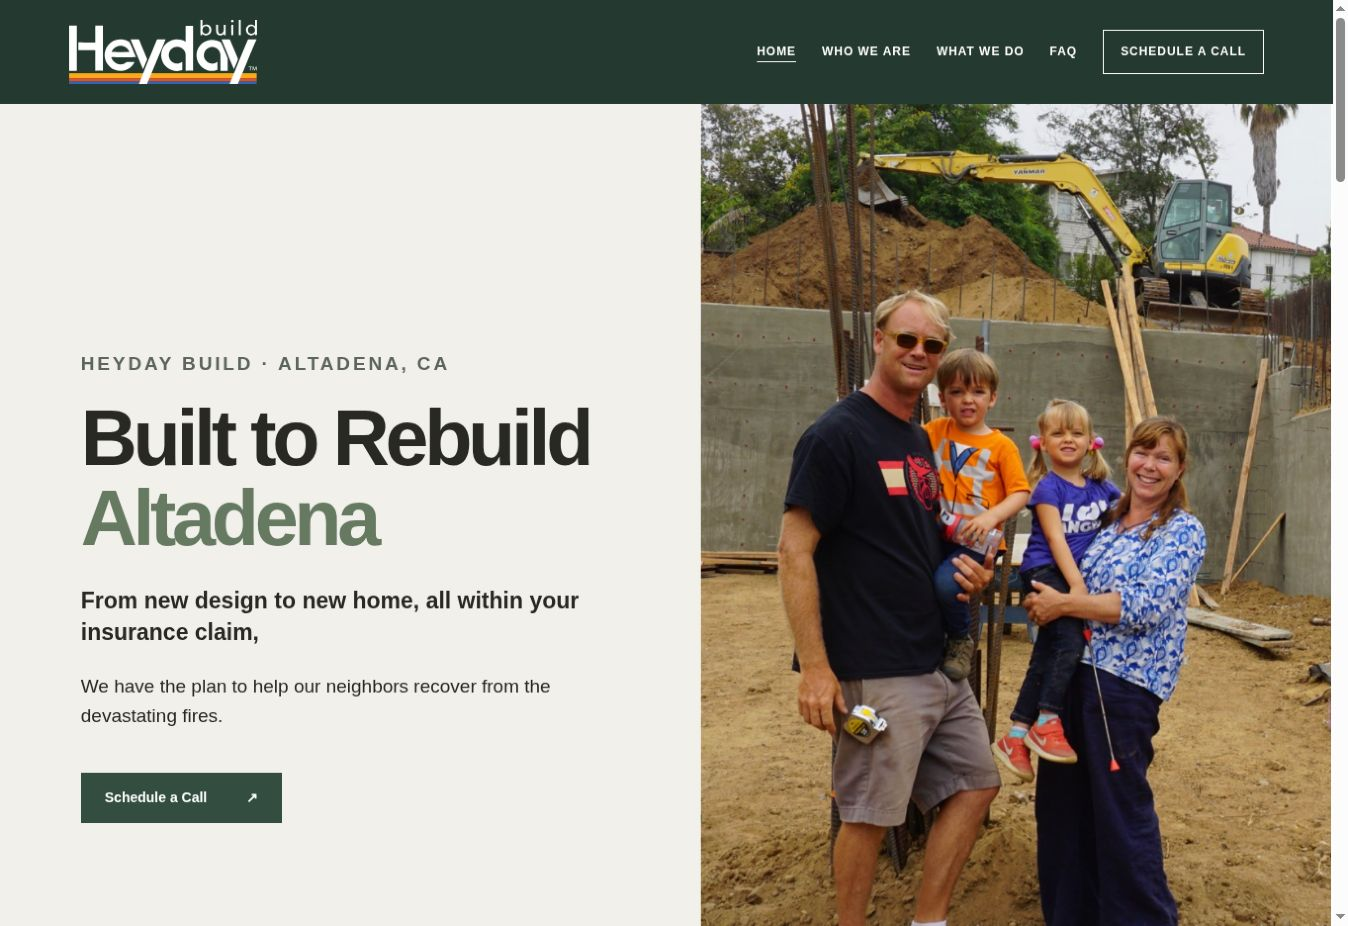
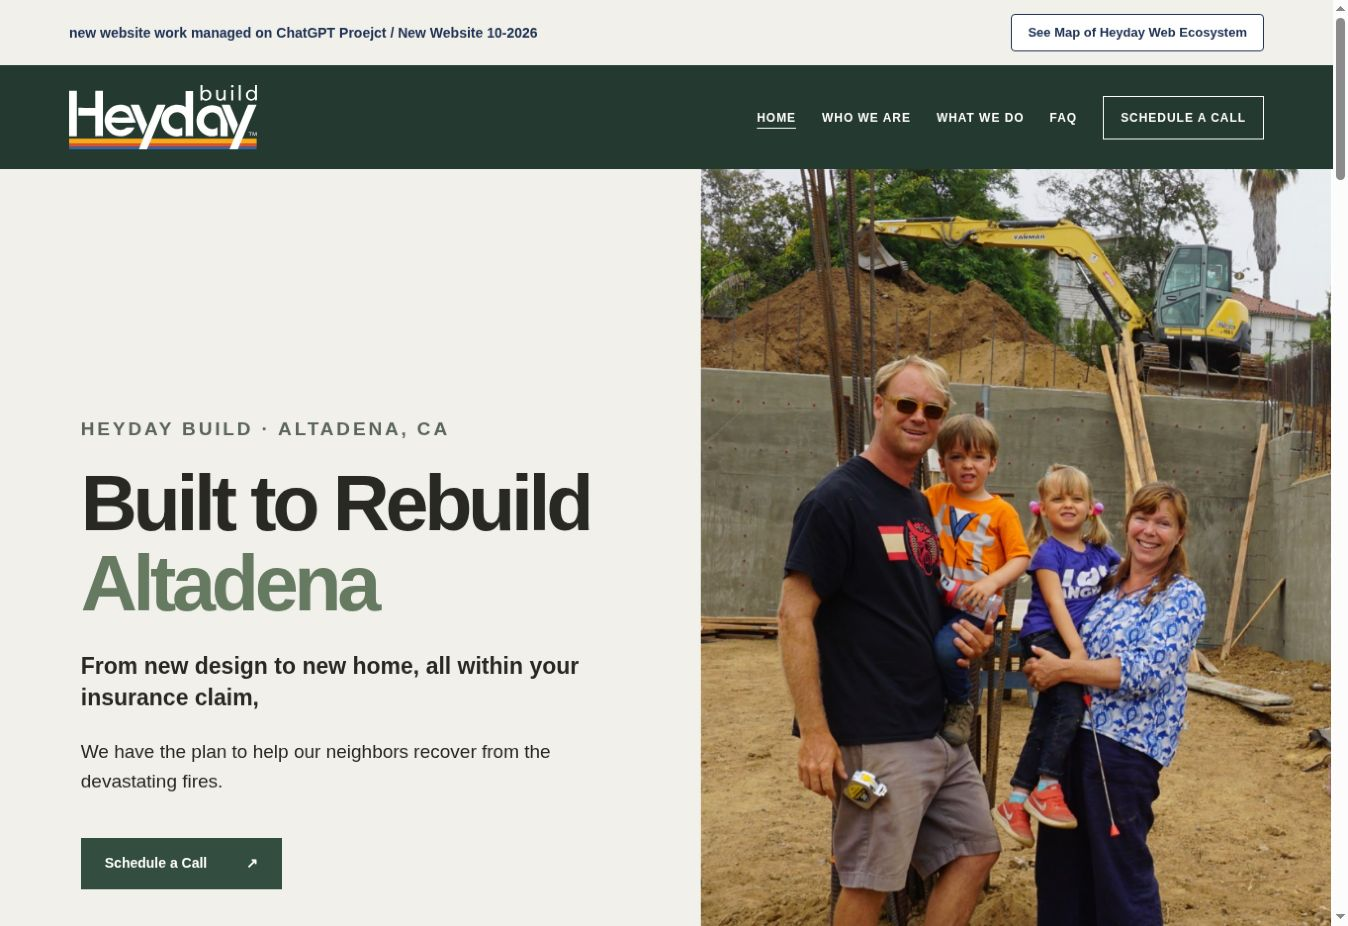
Refresh Vercel website map and all screenshots; new Heyday site is live

diff --git a/map/index.html b/map/index.html
@@ -1,4 +1,4 @@
 <!doctype html>
 <html lang="en"><head><meta charset="utf-8"><meta name="viewport" content="width=device-width,initial-scale=1"><title>Website Map | Heyday Build</title><meta name="robots" content="noindex,follow"><style>
 *{box-sizing:border-box}body{margin:0;background:#faf8f1;color:#263d33;font:16px/1.5 system-ui,sans-serif}main{max-width:920px;padding:40px 24px 60px;margin:auto}header{display:flex;justify-content:space-between;align-items:center;margin-bottom:28px}header img{width:140px;padding:12px;background:#263d33;border-radius:4px}a{color:inherit}h1{font:normal 42px Georgia,serif;margin:0 0 8px}p{color:#647068;margin:0 0 25px}ul{list-style:none;padding:0;margin:0}li{border-top:1px solid #d5dbd1;padding:16px 0;display:flex;align-items:center;gap:24px}.thumb{display:block;flex:0 0 200px}.thumb img{display:block;width:200px;height:120px;object-fit:cover;object-position:top;border:1px solid #d3d9d0;border-radius:5px;background:white}.details{min-width:0}h2{font-size:17px;margin:0 0 4px;font-weight:600;overflow-wrap:anywhere}.domain{font-size:15px;overflow-wrap:anywhere}.status{display:block;color:#9b532e;font-size:12px;margin-top:6px}footer{border-top:1px solid #d5dbd1;padding-top:18px;font-size:12px;color:#647068}a:focus-visible{outline:3px solid #b97837;outline-offset:4px}@media(max-width:560px){main{padding:24px 16px}.thumb{flex-basis:110px}.thumb img{width:110px;height:78px}li{gap:14px}h2{font-size:14px}.domain{font-size:13px}h1{font-size:34px}}
-.placeholder-banner{background:#213457;color:#fff;text-align:center;padding:10px 16px;font:600 14px/1.5 system-ui,sans-serif}</style></head><body><div class="placeholder-banner" role="note">Placeholder Website Managed at ChatGPT / SiteMap on GitHub</div><main><header><a href="/">Home ↗</a></header><h1>Website Map</h1><p>7 Vercel projects and their domains. Click a screenshot or domain to open the site.</p><ul><li><a class="thumb" href="https://mike.yourheyday.com/" aria-label="Open mike-commision-report"><img src="/map/screenshots/project-mike.jpg" alt="Screenshot of mike-commision-report" width="200" height="120"></a><div class="details"><h2>mike-commision-report</h2><a class="domain" href="https://mike.yourheyday.com/">mike.yourheyday.com ↗</a></div></li><li><a class="thumb" href="https://reports.yourheyday.com/" aria-label="Open heyday-client-reports"><img src="/map/screenshots/project-reports.jpg" alt="Screenshot of heyday-client-reports" width="200" height="120"></a><div class="details"><h2>heyday-client-reports</h2><a class="domain" href="https://reports.yourheyday.com/">reports.yourheyday.com ↗</a></div></li><li><a class="thumb" href="https://www.yourheyday.com/" aria-label="Open yourheyday-website"><img src="/map/screenshots/project-website.jpg" alt="Screenshot of yourheyday-website" width="200" height="120"></a><div class="details"><h2>yourheyday-website</h2><a class="domain" href="https://www.yourheyday.com/">www.yourheyday.com ↗</a></div></li><li><a class="thumb" href="https://new.yourheyday.com/" aria-label="Open new-heyday-build-2026"><img src="/map/screenshots/project-new.jpg" alt="Screenshot of new-heyday-build-2026" width="200" height="120"></a><div class="details"><h2>new-heyday-build-2026</h2><a class="domain" href="https://new.yourheyday.com/">new.yourheyday.com ↗</a><span class="status">Not live yet · currently returns 404</span></div></li><li><a class="thumb" href="https://lot.yourheyday.com/" aria-label="Open build-on-lot"><img src="/map/screenshots/project-lot.jpg" alt="Screenshot of build-on-lot" width="200" height="120"></a><div class="details"><h2>build-on-lot</h2><a class="domain" href="https://lot.yourheyday.com/">lot.yourheyday.com ↗</a></div></li><li><a class="thumb" href="https://avalon.yourheyday.com/" aria-label="Open avalon"><img src="/map/screenshots/project-avalon.jpg" alt="Screenshot of avalon" width="200" height="120"></a><div class="details"><h2>avalon</h2><a class="domain" href="https://avalon.yourheyday.com/">avalon.yourheyday.com ↗</a></div></li><li><a class="thumb" href="https://blc.yourheyday.com/" aria-label="Open blc-website-10-2026-heyday.build"><img src="/map/screenshots/project-blc.jpg" alt="Screenshot of blc-website-10-2026-heyday.build" width="200" height="120"></a><div class="details"><h2>blc-website-10-2026-heyday.build</h2><a class="domain" href="https://blc.yourheyday.com/">blc.yourheyday.com ↗</a></div></li></ul><footer>Domains verified in Vercel · Screenshots captured October 20, 2026</footer></main></body></html>
+.placeholder-banner{background:#213457;color:#fff;text-align:center;padding:10px 16px;font:600 14px/1.5 system-ui,sans-serif}</style></head><body><div class="placeholder-banner" role="note">Placeholder Website Managed at ChatGPT / SiteMap on GitHub</div><main><header><a href="/">Home ↗</a></header><h1>Website Map</h1><p>7 Vercel projects and their domains. Click a screenshot or domain to open the site.</p><ul><li><a class="thumb" href="https://mike.yourheyday.com/" aria-label="Open mike-commision-report"><img src="/map/screenshots/project-mike.jpg" alt="Screenshot of mike-commision-report" width="200" height="120"></a><div class="details"><h2>mike-commision-report</h2><a class="domain" href="https://mike.yourheyday.com/">mike.yourheyday.com ↗</a></div></li><li><a class="thumb" href="https://reports.yourheyday.com/" aria-label="Open heyday-client-reports"><img src="/map/screenshots/project-reports.jpg" alt="Screenshot of heyday-client-reports" width="200" height="120"></a><div class="details"><h2>heyday-client-reports</h2><a class="domain" href="https://reports.yourheyday.com/">reports.yourheyday.com ↗</a></div></li><li><a class="thumb" href="https://www.yourheyday.com/" aria-label="Open yourheyday-website"><img src="/map/screenshots/project-website.jpg" alt="Screenshot of yourheyday-website" width="200" height="120"></a><div class="details"><h2>yourheyday-website</h2><a class="domain" href="https://www.yourheyday.com/">www.yourheyday.com ↗</a></div></li><li><a class="thumb" href="https://new.yourheyday.com/" aria-label="Open new-heyday-build-2026"><img src="/map/screenshots/project-new.jpg" alt="Screenshot of new-heyday-build-2026" width="200" height="120"></a><div class="details"><h2>new-heyday-build-2026</h2><a class="domain" href="https://new.yourheyday.com/">new.yourheyday.com ↗</a></div></li><li><a class="thumb" href="https://lot.yourheyday.com/" aria-label="Open build-on-lot"><img src="/map/screenshots/project-lot.jpg" alt="Screenshot of build-on-lot" width="200" height="120"></a><div class="details"><h2>build-on-lot</h2><a class="domain" href="https://lot.yourheyday.com/">lot.yourheyday.com ↗</a></div></li><li><a class="thumb" href="https://avalon.yourheyday.com/" aria-label="Open avalon"><img src="/map/screenshots/project-avalon.jpg" alt="Screenshot of avalon" width="200" height="120"></a><div class="details"><h2>avalon</h2><a class="domain" href="https://avalon.yourheyday.com/">avalon.yourheyday.com ↗</a></div></li><li><a class="thumb" href="https://blc.yourheyday.com/" aria-label="Open blc-website-10-2026-heyday.build"><img src="/map/screenshots/project-blc.jpg" alt="Screenshot of blc-website-10-2026-heyday.build" width="200" height="120"></a><div class="details"><h2>blc-website-10-2026-heyday.build</h2><a class="domain" href="https://blc.yourheyday.com/">blc.yourheyday.com ↗</a></div></li></ul><footer>All 7 sites live · Domains and screenshots refreshed October 20, 2026 at 9:01 AM Pacific</footer></main></body></html>
